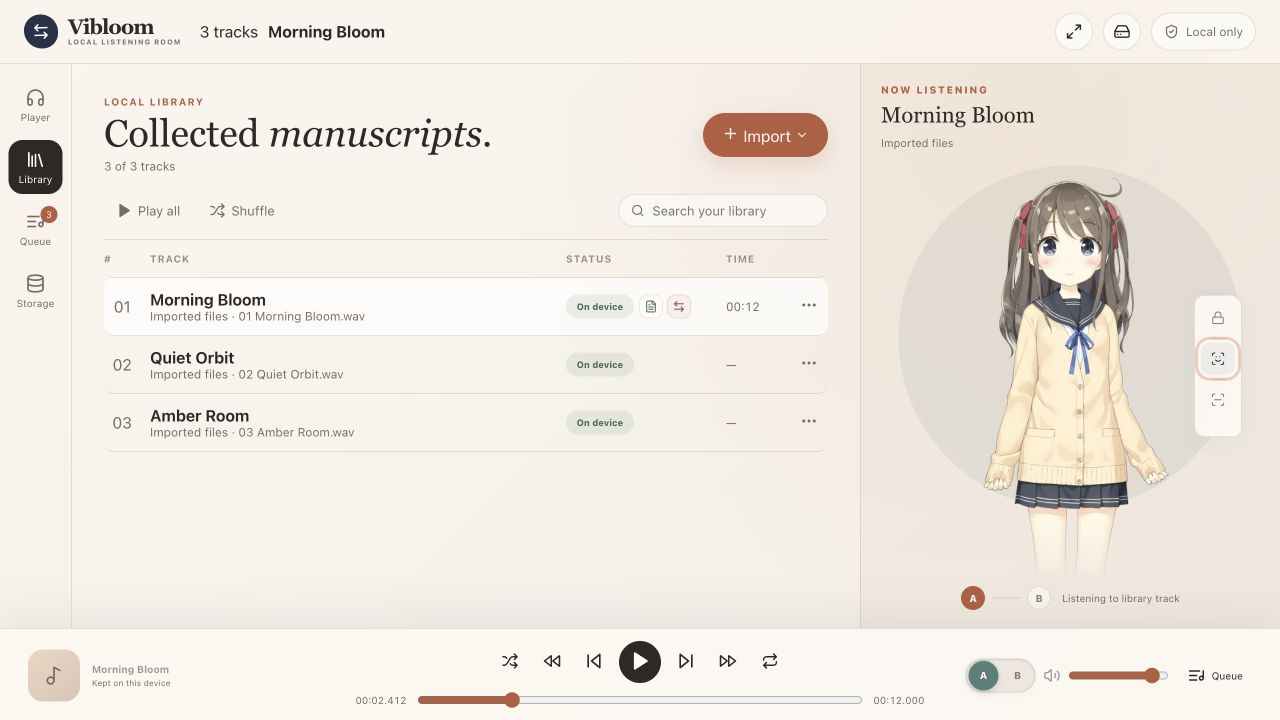
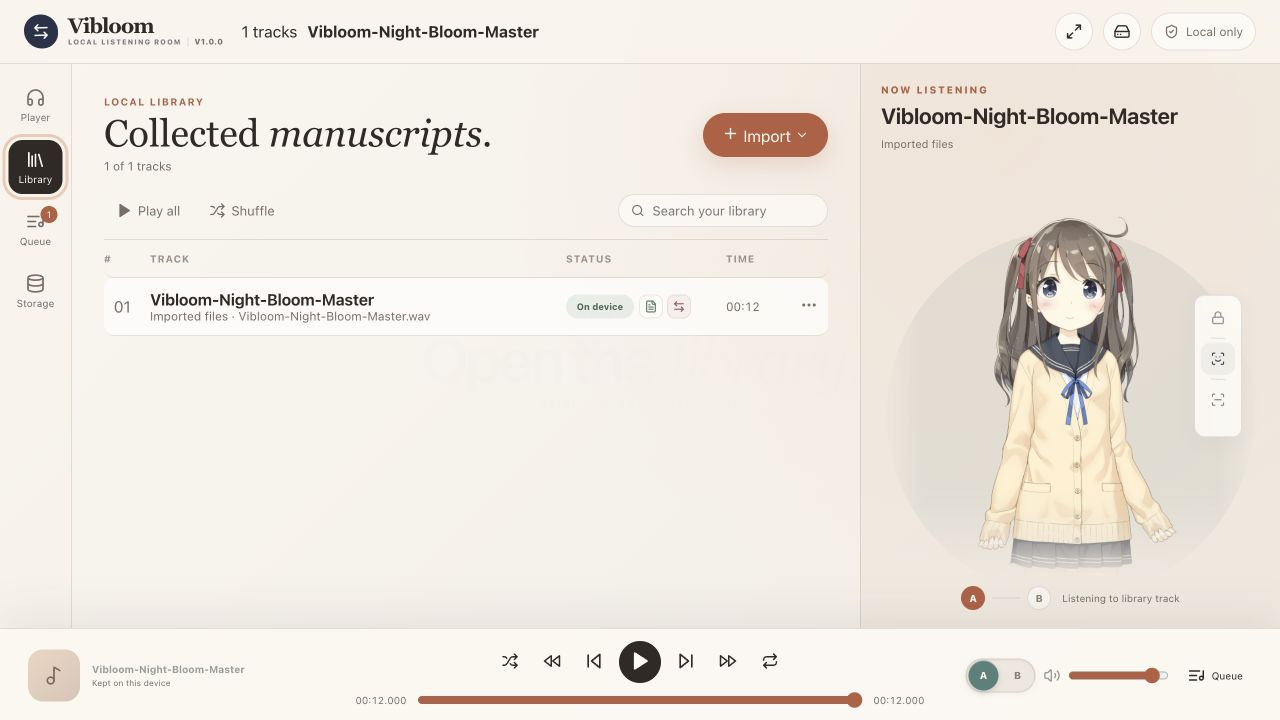
docs: refresh README and product screenshots

diff --git a/README.md b/README.md
@@ -2,15 +2,15 @@
 
 Your music library, brought to life.
 
-Vibloom is a private, browser-based music player for local files. Bring a song, a whole album, or a folder; build a queue; add synchronized lyrics; compare two versions of a mix; and listen with Hiyori as a rhythm-aware Live2D companion.
+Vibloom is a private, local-first music player for the web, Windows, and macOS. Bring a song, a whole album, or a folder; build a queue; add synchronized lyrics; compare two versions of a mix; and listen with Hiyori as a rhythm-aware Live2D companion.
 
-[Open Vibloom](https://wedoso.github.io/Vibloom/)
+[Open Vibloom on the web](https://wedoso.github.io/Vibloom/) · [Download the desktop app](https://github.com/wedoso/Vibloom/releases/latest)
 
 ![Vibloom welcome screen](docs/assets/landing.png)
 
 ## Everything stays yours
 
-Vibloom has no account, server upload, analytics, or cloud music locker. Audio and lyrics are read and processed in your browser.
+Vibloom has no account, server upload, analytics, or cloud music locker. Audio and lyrics are read and processed locally in the browser or desktop app.
 
 New music is kept on this device by default so reopening the tab does not normally require reconnecting your files. You can pause automatic caching, remove individual cached copies, clear all cached audio while keeping the library, or reset Vibloom completely from **Storage**.
 
@@ -25,8 +25,8 @@ Browser storage can still be cleared by private-browsing rules, site-data cleanu
 - Reorder the queue and choose **Play next** without changing the library.
 - Search your collection and resume the last track and position after reopening.
 - Use `Space` to play or pause, arrow keys to seek five seconds, and `F` to enter or leave Focus mode.
-- Start in Portrait, switch to a larger full-body Wide shot, or use the mouse wheel for manual framing up to 235%.
-- Camera framing keeps Hiyori and the background circle aligned, preserves a near-full-body view around 162%, and protects the title area at close zoom.
+- Use Director for automatic phrase-level framing, Portrait for an upper-body shot, or Wide for a full-body view.
+- Use the mouse wheel for manual framing up to 400%. Every camera mode adapts to the available stage, protects the title area, and applies a soft edge fade when close framing reaches a boundary.
 
 ## Hear the difference
 
@@ -52,9 +52,11 @@ Press `F` for a distraction-free stage. Focus mode removes the waveform cards wh
 
 Attach, replace, or remove an `.lrc` file from the current song or its library menu. Lyrics scroll with playback and use the audible source color: green for Version A, rose for Version B. UTF-8 and BOM-marked UTF-16 files are supported, including offsets, repeated timestamps, and multilingual lines.
 
-## Supported browsers and files
+## Desktop and browser support
 
-Vibloom targets current Safari, Chrome, and Firefox on desktop. Folder drag-and-drop depends on browser support; the visible folder picker is always available as a fallback.
+The Windows and macOS apps use the same React renderer and product code as the web version; Electron adds only the native window, security boundary, and packaging layer. Each build displays its version in the header so users can compare it with the [latest release](https://github.com/wedoso/Vibloom/releases/latest).
+
+The web version targets current Safari, Chrome, and Firefox on desktop. Folder drag-and-drop depends on browser support; the visible folder picker is always available as a fallback.
 
 Common MP3, WAV, M4A/AAC, FLAC, OGG, Opus, WebM Audio, and AIFF files are accepted when the browser can decode them. Individual files larger than 300 MB are rejected to protect the tab.
 
@@ -69,7 +71,7 @@ Common MP3, WAV, M4A/AAC, FLAC, OGG, Opus, WebM Audio, and AIFF files are accept
 
 ## For contributors
 
-Vibloom is a static React/Vite app and can be hosted without a backend.
+Vibloom is a static React/Vite app and can be hosted without a backend. The Electron desktop shell loads that same production renderer rather than maintaining a separate UI implementation.
 
 ```bash
 git clone https://github.com/wedoso/Vibloom.git
@@ -87,7 +89,7 @@ npm run desktop:dev
 npm run desktop:smoke
 ```
 
-Installer builds and the GitHub Actions release workflow are documented in [the desktop build guide](docs/desktop.md).
+Installer builds and the GitHub Actions release workflow are documented in [the desktop build guide](docs/desktop.md). `package.json` is the single version source for the web header, desktop runtime, and installer metadata. Release Please prepares future version updates on `main`; merging its release PR creates the Git tag and GitHub Release, then the desktop workflow attaches Windows and macOS installers. The initial `v1.0.0` release can be downloaded from the [Releases page](https://github.com/wedoso/Vibloom/releases/tag/v1.0.0).
 
 Detailed implementation contracts live in [the player specification](docs/library-player.md) and [architecture notes](docs/architecture.md).
 
